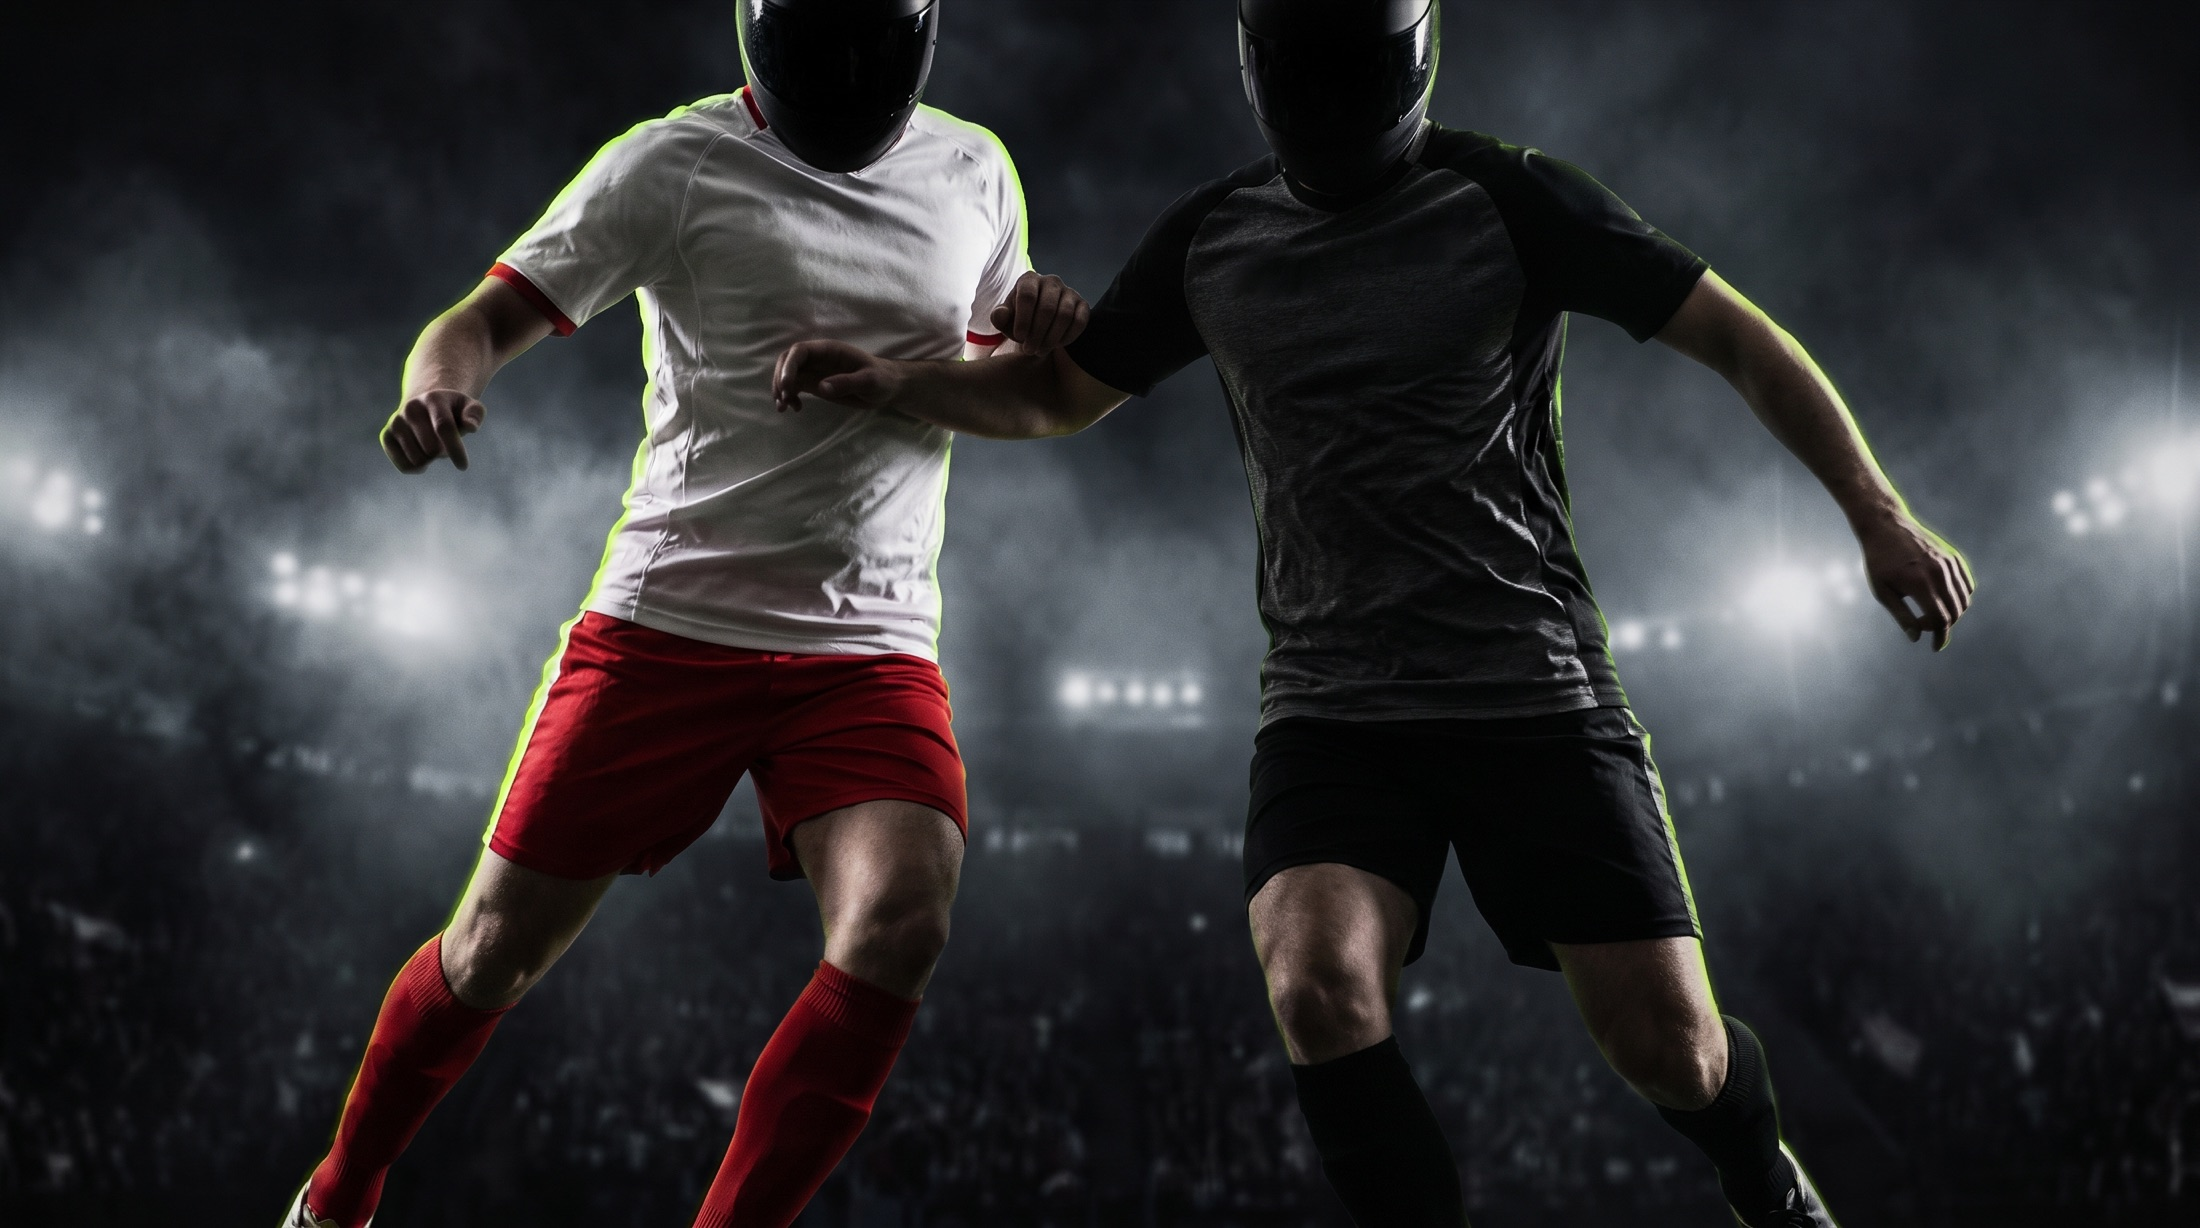
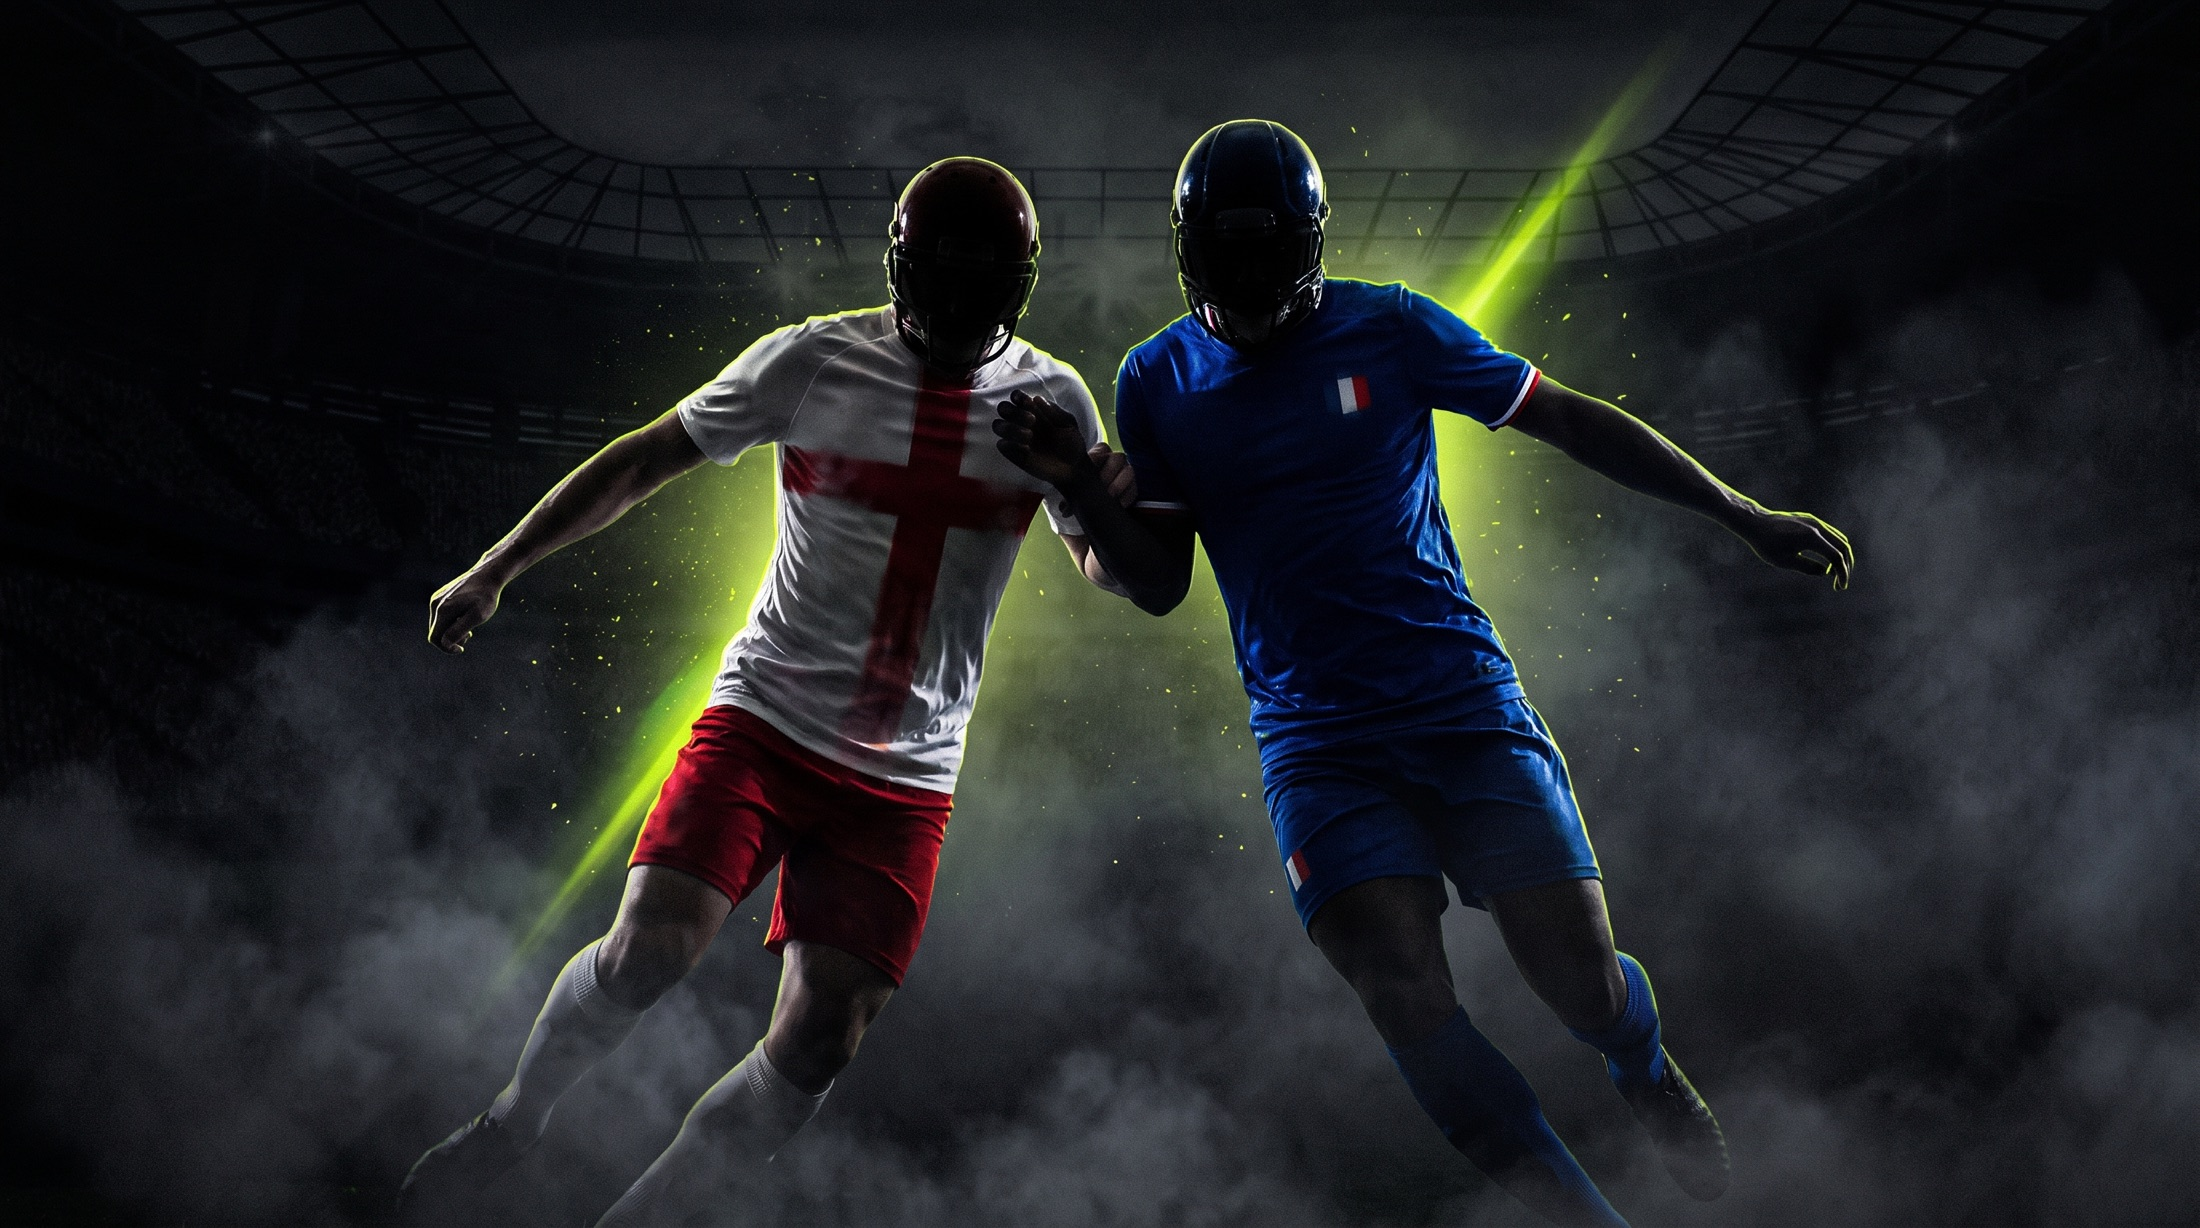
feat: England v France marquee, TxLINE live seam
- Feature England v France as the always-on marquee fixture
- Live demo card, Hi-Lo, PunditBot, Match Centre all show ENG v FRA
- Tomorrow slate pins ENG v FRA as the 20:00 headliner
- New ENG v FRA banner render (white/red cross vs France blue)
- Build TxLINE/TxODDS live adapter: real feed when token is set,
  simulator fallback; /api/live reports mode + source

diff --git a/lib/txline.server.ts b/lib/txline.server.ts
@@ -1,0 +1,116 @@
+// TxLINE / TxODDS live adapter (server-only).
+//
+// The public game runs on the deterministic engine. The moment a TxLINE API
+// token is present, this adapter fetches the real World Cup feed instead,
+// mapping it to our MatchState shape. Getting the token is a one-time on-chain
+// step per the TxODDS docs: submit the Solana `subscribe` transaction, sign a
+// message, activate, then set these env vars:
+//
+//   TXLINE_MODE=live
+//   TXLINE_API_TOKEN=<activated api token>       (X-Api-Token header)
+//   TXLINE_API_JWT=<guest jwt>                    (Authorization: Bearer)
+//   TXLINE_API_ORIGIN=https://txline.txodds.com   (or txline-dev for devnet)
+//
+// Docs: https://txline.txodds.com/documentation/worldcup
+
+import type { MatchState, SideStats, Team } from "@/lib/engine";
+import { team } from "@/lib/engine";
+
+export function liveConfigured(): boolean {
+  return (
+    process.env.TXLINE_MODE === "live" &&
+    Boolean(process.env.TXLINE_API_TOKEN) &&
+    Boolean(process.env.TXLINE_API_ORIGIN)
+  );
+}
+
+interface TxFixture {
+  id: number;
+  home: { code: string; name: string };
+  away: { code: string; name: string };
+  minute: number;
+  status: string;
+  homeScore: number;
+  awayScore: number;
+  sequence: number;
+}
+
+interface TxOdds {
+  home: number;
+  draw: number;
+  away: number;
+}
+
+function headers(): HeadersInit {
+  const h: Record<string, string> = {
+    "X-Api-Token": process.env.TXLINE_API_TOKEN as string,
+    Accept: "application/json",
+  };
+  if (process.env.TXLINE_API_JWT) h.Authorization = `Bearer ${process.env.TXLINE_API_JWT}`;
+  return h;
+}
+
+async function txGet<T>(path: string): Promise<T> {
+  const origin = process.env.TXLINE_API_ORIGIN as string;
+  const res = await fetch(`${origin}/api${path}`, { headers: headers(), cache: "no-store" });
+  if (!res.ok) throw new Error(`TxLINE ${path} -> ${res.status}`);
+  return (await res.json()) as T;
+}
+
+function knownTeam(code: string, name: string): Team {
+  const t = team(code);
+  return t.code === code ? t : { code, name, flag: "🏳️", strength: 0.7 };
+}
+
+function impliedProbs(o: TxOdds) {
+  const raw = { h: 1 / o.home, d: 1 / o.draw, a: 1 / o.away };
+  const sum = raw.h + raw.d + raw.a;
+  return {
+    home: Math.round((raw.h / sum) * 1000) / 10,
+    draw: Math.round((raw.d / sum) * 1000) / 10,
+    away: Math.round((raw.a / sum) * 1000) / 10,
+  };
+}
+
+function emptyStats(): SideStats {
+  return { shots: 0, onTarget: 0, corners: 0, xg: 0, yellows: 0, reds: 0, possession: 50 };
+}
+
+/**
+ * Fetch a single live fixture from TxLINE and map it to a MatchState. Returns
+ * null on any failure so the caller can fall back to the simulator. Prefers the
+ * England v France fixture when present.
+ */
+export async function fetchLiveMarquee(): Promise<MatchState | null> {
+  try {
+    const fixtures = await txGet<TxFixture[]>("/worldcup/fixtures?status=live");
+    if (!fixtures.length) return null;
+    const engFra = fixtures.find(
+      (f) =>
+        (f.home.code === "ENG" && f.away.code === "FRA") ||
+        (f.home.code === "FRA" && f.away.code === "ENG"),
+    );
+    const fx = engFra ?? fixtures[0];
+    const odds = await txGet<TxOdds>(`/worldcup/odds/${fx.id}`);
+    const probs = impliedProbs(odds);
+    const stats: [SideStats, SideStats] = [emptyStats(), emptyStats()];
+    return {
+      fixtureId: fx.id,
+      cycle: 0,
+      slot: -1,
+      home: knownTeam(fx.home.code, fx.home.name),
+      away: knownTeam(fx.away.code, fx.away.name),
+      minute: fx.minute,
+      phase: fx.status === "HT" ? "HT" : fx.minute >= 90 ? "FT" : "LIVE",
+      score: [fx.homeScore, fx.awayScore],
+      stats,
+      probs,
+      odds,
+      pressure: 0,
+      events: [],
+      sequence: fx.sequence,
+    };
+  } catch {
+    return null; // fall back to the simulator
+  }
+}

diff --git a/lib/engine.ts b/lib/engine.ts
@@ -99,7 +99,14 @@ export interface MatchState {
 
 // ---------- fixture selection ----------
 
+// The marquee slot is always England v France, so it anchors the live demo
+// card, the Hi-Lo game, PunditBot, and the Match Centre. Every function that
+// simulates this slot resolves the same fixture, keeping the game consistent.
+export const MARQUEE_SLOT = 2;
+export const MARQUEE = ["ENG", "FRA"] as const;
+
 function fixtureTeams(cycle: number, slot: number): [Team, Team] {
+  if (slot === MARQUEE_SLOT) return [team(MARQUEE[0]), team(MARQUEE[1])];
   const r = mulberry32(hash(cycle, slot, 7));
   const a = Math.floor(r() * TEAMS.length);
   let b = Math.floor(r() * (TEAMS.length - 1));
@@ -109,12 +116,6 @@ function fixtureTeams(cycle: number, slot: number): [Team, Team] {
 
 export function team(code: string): Team {
   return TEAMS.find((t) => t.code === code) ?? TEAMS[0];
-}
-
-/** A team that isn't `code`, chosen deterministically by seed. */
-function opponentFor(code: string, seed: number): Team {
-  const pool = TEAMS.filter((t) => t.code !== code);
-  return pool[Math.floor(mulberry32(seed)() * pool.length)];
 }
 
 // ---------- core simulation ----------
@@ -267,41 +268,39 @@ export interface LiveWorld {
   nextTickAt: number;
 }
 
-const SLOTS = 2;
+const SLOTS = 2; // supporting fixtures alongside the marquee
 
 function slotPosition(now: number, slot: number) {
-  const offset = slot * (CYCLE_MS / SLOTS);
+  const offset = slot * 9 * TICK_MS; // stagger fixtures so they run out of phase
   const elapsed = now - EPOCH + offset;
   const cycle = Math.floor(elapsed / CYCLE_MS);
   const tick = Math.floor((elapsed % CYCLE_MS) / TICK_MS);
   return { cycle, tick };
 }
 
+/** The always-on England v France marquee, live via the deterministic engine. */
+export function marqueeMatch(now: number = Date.now()): MatchState {
+  const { cycle, tick } = slotPosition(now, MARQUEE_SLOT);
+  return simulate(cycle, MARQUEE_SLOT, tick);
+}
+
 export function liveWorld(now: number = Date.now()): LiveWorld {
-  const matches = Array.from({ length: SLOTS }, (_, slot) => {
+  const marquee = marqueeMatch(now);
+  const others = Array.from({ length: SLOTS }, (_, slot) => {
     const { cycle, tick } = slotPosition(now, slot);
     return simulate(cycle, slot, tick);
   });
-  // featured = the live match deepest into play; fall back to any
-  const live = matches.filter((m) => m.phase === "LIVE");
-  const featured = (live.length ? live : matches).sort((a, b) => b.minute - a.minute)[0];
+  // The England v France marquee is always the featured game.
+  const matches = [marquee, ...others];
   const sincePeriod = (now - EPOCH) % TICK_MS;
-  return { now, matches, featured, nextTickAt: now + (TICK_MS - sincePeriod) };
+  return { now, matches, featured: marquee, nextTickAt: now + (TICK_MS - sincePeriod) };
 }
 
 // ---------- match centre ----------
 
-const ENGLAND_SLOT = 5;
-
-/**
- * The marquee live game, always featuring England vs a daily rival. Runs on the
- * same deterministic engine as the rest of the feed, on its own slot phase.
- */
+/** Alias kept for the Match Centre: the marquee is the England game. */
 export function englandMatch(now: number = Date.now()): MatchState {
-  const { cycle, tick } = slotPosition(now, ENGLAND_SLOT);
-  const eng = team("ENG");
-  const rival = opponentFor("ENG", hash(cycle, ENGLAND_SLOT, 61));
-  return simulate(cycle, ENGLAND_SLOT, tick, [eng, rival]);
+  return marqueeMatch(now);
 }
 
 export interface Fixture {
@@ -310,33 +309,42 @@ export interface Fixture {
   away: Team;
   time: string; // clean HH:00 kickoff label
   group: string;
+  featured?: boolean; // the England v France headliner
 }
 
 const DAY_MS = 24 * 60 * 60 * 1000;
 const GROUPS = ["A", "B", "C", "D", "E", "F", "G", "H"];
+const PRIME_INDEX = 4; // 20:00 evening headliner slot
 
-/** Deterministic slate of tomorrow's fixtures, each team appearing once. */
+/**
+ * Deterministic slate of tomorrow's fixtures. England v France is the pinned
+ * headliner in the prime evening slot; the rest are drawn from the other
+ * nations, each appearing once.
+ */
 export function tomorrowFixtures(now: number = Date.now(), count = 6): Fixture[] {
   const dayIndex = Math.floor((now - EPOCH) / DAY_MS) + 1; // tomorrow
-  // Fisher-Yates shuffle of the team pool, seeded on the day
-  const pool = [...TEAMS];
+  // shuffle the non-marquee nations, seeded on the day
+  const pool = TEAMS.filter((t) => !MARQUEE.includes(t.code as (typeof MARQUEE)[number]));
   const r = mulberry32(hash(dayIndex, 71));
   for (let i = pool.length - 1; i > 0; i--) {
     const j = Math.floor(r() * (i + 1));
     [pool[i], pool[j]] = [pool[j], pool[i]];
   }
   const fixtures: Fixture[] = [];
-  const n = Math.min(count, Math.floor(pool.length / 2));
-  for (let i = 0; i < n; i++) {
-    const home = pool[i * 2];
-    const away = pool[i * 2 + 1];
+  let p = 0;
+  for (let i = 0; i < count; i++) {
     const hour = 12 + i * 2; // 12:00, 14:00, 16:00 ...
+    const isPrime = i === PRIME_INDEX;
+    const home = isPrime ? team(MARQUEE[0]) : pool[p++];
+    const away = isPrime ? team(MARQUEE[1]) : pool[p++];
+    if (!home || !away) break;
     fixtures.push({
-      fixtureId: 18_180_000 + dayIndex * 100 + i,
+      fixtureId: isPrime ? 18_180_099 : 18_180_000 + dayIndex * 100 + i,
       home,
       away,
       time: `${String(hour).padStart(2, "0")}:00`,
-      group: GROUPS[i % GROUPS.length],
+      group: isPrime ? "D" : GROUPS[i % GROUPS.length],
+      featured: isPrime,
     });
   }
   return fixtures;

diff --git a/app/api/live/route.ts b/app/api/live/route.ts
@@ -1,18 +1,33 @@
 import { NextResponse } from "next/server";
 import { currentRound, liveWorld } from "@/lib/engine";
+import { fetchLiveMarquee, liveConfigured } from "@/lib/txline.server";
 
 // Server truth endpoint: the same deterministic engine the client runs,
-// exposed as JSON. A native app, the Telegram bot, or judges can hit this
-// directly. Swap in the real TxLINE adapter here for live mode.
-export function GET() {
+// exposed as JSON. When a TxLINE token is configured (TXLINE_MODE=live), the
+// featured England v France marquee is replaced with the real TxODDS feed;
+// everything else stays on the simulated engine. See lib/txline.server.ts.
+export async function GET() {
   const world = liveWorld();
+  let mode: "sim" | "live" = "sim";
+  let matches = world.matches;
+
+  if (liveConfigured()) {
+    const live = await fetchLiveMarquee();
+    if (live) {
+      mode = "live";
+      matches = [live, ...world.matches.slice(1)];
+    }
+  }
+
   return NextResponse.json(
     {
-      mode: process.env.TXLINE_MODE ?? "sim",
+      mode,
+      source: mode === "live" ? "TxODDS TxLINE World Cup feed" : "deterministic simulation",
       now: world.now,
       nextTickAt: world.nextTickAt,
+      marquee: "ENG v FRA",
       round: currentRound(world.now),
-      matches: world.matches.map((m) => ({
+      matches: matches.map((m) => ({
         fixtureId: m.fixtureId,
         home: m.home,
         away: m.away,

diff --git a/components/matches/MatchCentre.tsx b/components/matches/MatchCentre.tsx
@@ -260,10 +260,18 @@ function Tomorrow() {
           <div
             key={f.fixtureId}
             data-fx
-            className="flex items-center justify-between rounded-2xl border border-line bg-surface p-4"
+            className={`flex items-center justify-between rounded-2xl border p-4 ${
+              f.featured
+                ? "border-volt bg-volt/10 shadow-[0_0_24px_rgba(175,255,0,0.18)]"
+                : "border-line bg-surface"
+            }`}
           >
             <div className="flex min-w-0 items-center gap-3">
-              <span className="rounded-md bg-night px-2 py-1 font-mono text-[11px] text-muted">
+              <span
+                className={`rounded-md px-2 py-1 font-mono text-[11px] ${
+                  f.featured ? "bg-volt text-night" : "bg-night text-muted"
+                }`}
+              >
                 {f.time}
               </span>
               <span className="truncate font-bold">
@@ -272,9 +280,15 @@ function Tomorrow() {
                 {f.away.code} {f.away.flag}
               </span>
             </div>
-            <span className="font-mono text-[11px] uppercase tracking-widest text-muted">
-              Grp {f.group}
-            </span>
+            {f.featured ? (
+              <span className="shrink-0 font-mono text-[10px] font-bold uppercase tracking-widest text-volt">
+                Headliner
+              </span>
+            ) : (
+              <span className="font-mono text-[11px] uppercase tracking-widest text-muted">
+                Grp {f.group}
+              </span>
+            )}
           </div>
         ))}
       </div>